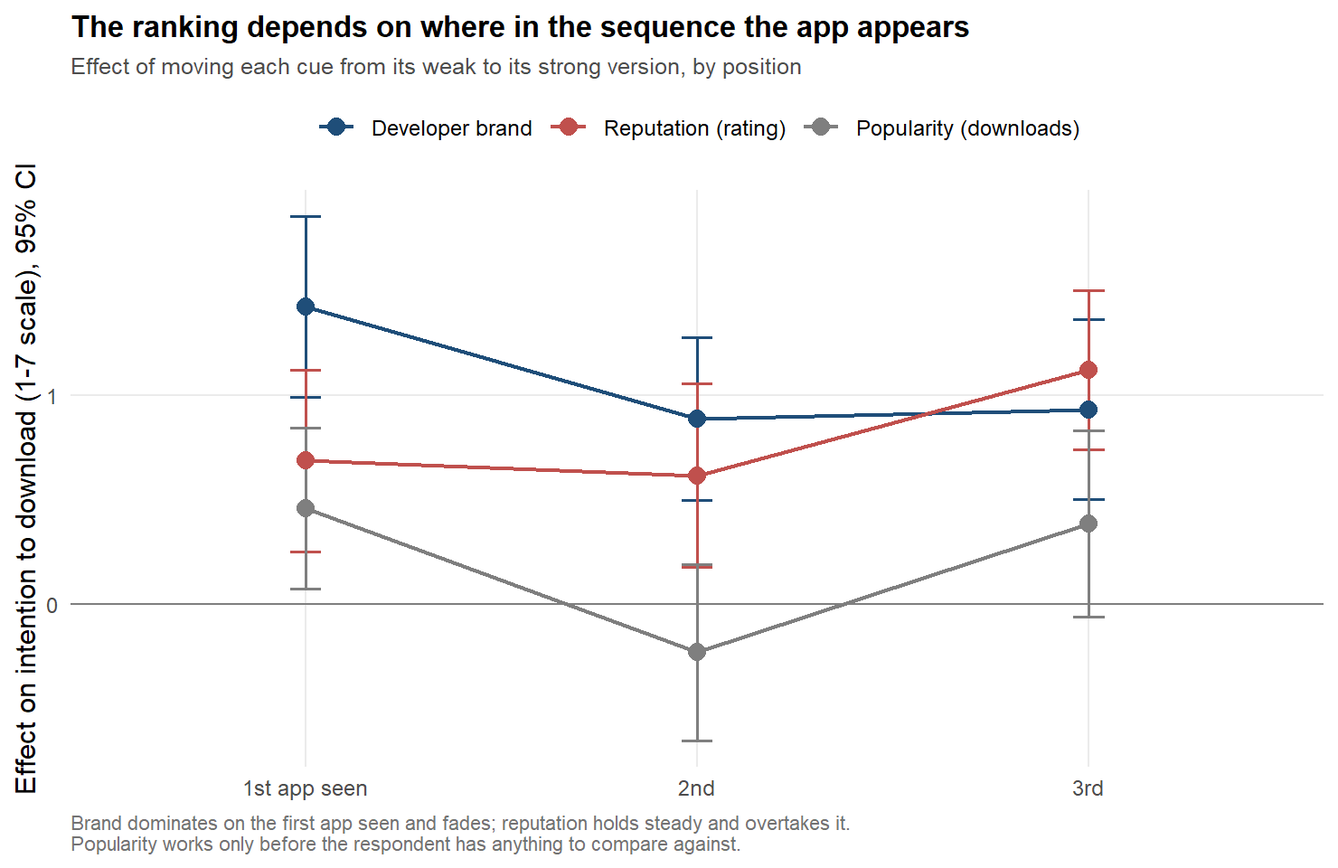
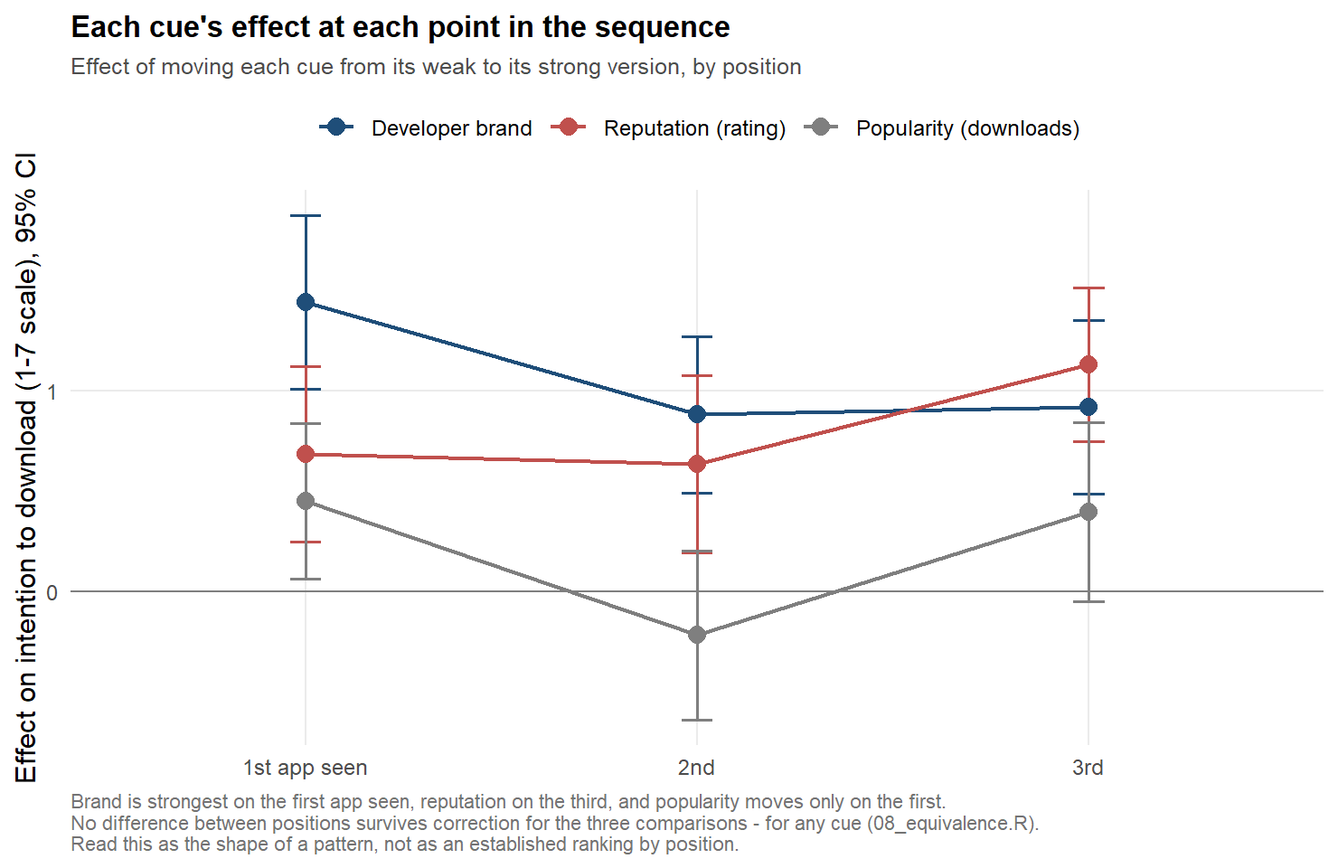
Pubblicazione blog reopening-my-thesis

diff --git a/content/blog/reopening-my-thesis.md b/content/blog/reopening-my-thesis.md
@@ -1,22 +1,17 @@
 ---
-title: "I Asked an AI to Review My Thesis. It Found Nothing New, Then Found Everything"
+title: "I Asked an AI to Review My Thesis. It Found Three Mistakes I Could Have Found Myself"
 description: "A reanalysis of my 2023 thesis on mobile app store downloads, three years later: what changed, what three mistakes I found, and what an AI-assisted second look could and couldn't catch."
-date: 2026-09-13T10:00:00+02:00
-draft: true
+date: 2026-09-21T10:00:00+02:00
+draft: false
 series: ["The Download Decision"]
 series_weight: 2
 tags: ["app store", "mobile app", "software", "eng"]
 author: "lb"
 showToc: true
 TocOpen: false
-# COPERTINA (nessun file ancora caricato). Un candidato forte è la curva di
-# specificazione (fig_04, sotto): è l'immagine più "di impatto" del post,
-# riassume da sola l'idea centrale (una conclusione che appare solo in un
-# angolo del grafico è una scelta, non un risultato). Togliere il commento
-# quando il file esiste, in static/blog/reopening-my-thesis/.
 cover:
     image: blog/reopening-my-thesis/master-thesis.webp
-    alt: "..."
+    alt: "The bound copy of the thesis, a dark blue hardcover stamped in silver with the University of Pavia seal and the title 'Determinants of Download on Mobile App Stores – An Empirical Analysis', held up in front of Pavia's covered bridge over the Ticino on a sunny day."
     relative: true
 ---
 
@@ -28,7 +23,7 @@ Three years is not a long time, and the same rule now reads as almost impossible
 
 In February 2023 I submitted a thesis on a narrow question: when someone lands on an app's product page in a store, which element of that page makes them decide to install it? I tested three of them, the **average review rating**, the **number of downloads**, and the **developer's brand**, carried by the app name, the icon and the developer's own name. I manipulated screenshots of a real Play Store page: each element exists in two versions, a strong one and a weak one, and every respondent saw three pages (one per element, in a random order, showing one of the two versions drawn at random). Nobody saw both versions of the same element. Then I measured what the literature calls intention to download.
 
-The answer I published was that the developer's brand is the most decisive element. Reputation comes second. Popularity does essentially nothing.
+The answer I published was that the developer's brand is the most decisive element. Reputation comes second. Popularity does essentially nothing, at least in a category with low network effects.
 
 This year I reopened the files. The data survived the scrutiny: the randomization worked, there are no missing values, and every regression in the thesis reproduces to four decimal places. The analysis did not. I made three mistakes, and none of them was in the data, they were in what I did with it.
 
@@ -38,94 +33,103 @@ The headline finding came from placing three coefficients side by side: 1.53 for
 
 Except that those three numbers came from three *different* regressions, estimated on three *different* groups of respondents. Nowhere in the thesis is there a test of whether 1.53 differs from 0.50. I looked at them and concluded.
 
-So I ran the test I should have run. One model, all 1,473 answers, with a proper adjustment for the fact that each person answered three times:
+So I ran the test I should have run. One model, all 1,473 answers at once, with an adjustment for the fact that each person now contributes three of them:
 
 | Element | Effect on intention to download (1–7 scale) | 95% CI |
 |---|---|---|
 | Developer's brand | **+1.05** | 0.81 to 1.29 |
-| Reputation (rating) | **+0.84** | 0.60 to 1.08 |
+| Reputation (rating) | **+0.85** | 0.61 to 1.09 |
 | Popularity (downloads) | +0.22 | −0.02 to 0.46 |
 
-Brand and reputation are **not distinguishable** (p = 0.22). Both clearly beat popularity. My three-step hierarchy is really two steps.
+Averaged over the three judgements each respondent made, brand and reputation are **not distinguishable** (p = 0.24). Both clearly beat popularity. My three-step hierarchy is really two steps, *on that average*, and the qualification turns out to matter.
 
-The interesting part is what the fragmentation cost. Splitting one sample into nine subsamples threw away most of the statistical power I had collected, and reputation's effect rose by two thirds, from 0.50 to 0.84, once it was estimated from all 491 answers rather than 149.
+The interesting part is what the fragmentation cost. Splitting one sample into nine subsamples threw away most of the statistical power I had collected, and reputation's effect rose by two thirds, from 0.50 to 0.85. About half of that rise is precision: on the same first-app question, one model on all the data puts reputation at 0.68 rather than 0.50. The other half comes from the change of question, because reputation is stronger in the judgements that come later.
 
 {{< figure
   src="fig_05_pooling_gain.webp"
-  alt="Two dot-and-whisker plots comparing the same three effects estimated two ways: hollow points from separate small subsamples, solid points from one pooled model. The pooled estimates are tighter and reputation shifts noticeably higher."
-  caption="The same question asked two ways. Hollow points are the thesis estimates, each from its own subsample; solid points use all the data at once. Reputation rises by two thirds; brand moves the other way."
+  alt="A dot-and-whisker plot of the three effects, each estimated three ways: hollow points from the thesis's separate small subsamples, triangles for the same first-app question from one model on all the data, solid points for the average over all three judgements. Brand is highest on the first app; reputation climbs from the thesis estimate to the average; popularity stays small throughout."
+  caption="The same three effects, estimated three ways. Hollow: the thesis, one regression per element on its own subsample. Triangle: the same question (the first app seen) from one model on all the data. Solid: the average over all three judgements, which is a different question."
 >}}
 
-To be sure this was not simply my new favourite model talking, I re-ran the comparison every defensible way: 24 combinations of sample, model type and controls, one of which failed to converge and was dropped. Brand comes out ahead in 4 of the remaining 23. The original conclusion was not a finding about apps. It was an artefact of an analytical choice.
+To be sure this was not simply my new favourite model talking, I re-ran the comparison every defensible way: 24 combinations of sample, model type and controls, one of which failed to converge and was dropped. Brand comes out ahead in 4 of the remaining 23, and those four are not a random corner of the picture. They are exactly the four that use only the **first** app each respondent saw.
+
+Which is the interesting part, because measuring the first app was a deliberate choice in 2022 and not an accident: the first screen is the only one a respondent judges before having anything to compare it against. On that quantity, the one the design was built to produce, brand does lead reputation: **+0.76 points, p = 0.03**, and +1.02 (p = 0.007) in the sample the thesis actually used.
+
+So the headline was not an artefact. The thesis made two claims: brand wins on the first app, and loses its lead once the user has seen other apps. It tested neither. Tested now, the first claim holds (+0.76, p = 0.03); the second does not reach significance (p = 0.10), so the data show a tendency, not a proven change.
+
+The mistake, then, is narrower than "the ranking collapses" and harder to shrug off. Nine regressions on nine subsamples share no parameters, so **no comparison between the three elements could be tested at all**, and none was. One model on all 1,473 answers gives the same first-app estimate, plus the test the thesis was missing, plus what happens after the user has seen alternatives.
 
 {{< figure
   src="fig_04_specification_curve.webp"
-  alt="A specification curve: dozens of point estimates for the same comparison, one per analytical choice, sorted by size. Almost all of them show brand and reputation as indistinguishable; brand only wins at one edge of the curve."
-  caption="Every defensible specification of the same comparison. If a conclusion only appears in a corner of this picture, it is a choice, not a result."
+  alt="A specification curve: the brand-minus-reputation gap estimated under every defensible combination of sample, model and controls, sorted by size, with a separate panel for the slide-6 subsample. Most intervals cross zero; the only clearly positive ones are the specifications that use the first app each respondent saw."
+  caption="Every defensible specification of the same comparison. Brand wins clearly only where the design aimed it, on the first app each respondent saw; everywhere else brand and reputation are indistinguishable."
 >}}
 
 ## Mistake Two: My "Manipulation Check" Was Not One
 
-The result people quoted back to me was the counter-intuitive one: download counts do not matter. In a market where everybody watches install numbers, that is an enjoyable thing to say.
+The result people quoted back to me was the counter-intuitive one: download counts do not matter. In a market where everybody watches install numbers, that is an enjoyable thing to say. It is also not quite what the thesis claimed. The experiment used scanner apps precisely because their network effects are low: a scanner is no more useful to you because millions of other people use it, so a download count can work only as a signal of what others think, not as a promise of extra value. The claim was that popularity is ineffective *in that setting*.
 
-I no longer believe the data supports it, for two reasons: one I should have caught in 2022, and one I did catch and did not follow through.
+I no longer believe the data supports even that, for two reasons: one I should have caught in 2022, and one I did catch and did not follow through.
 
 The first is embarrassing. I went back to the stimulus images themselves. The low-popularity version of the app displays **10,000+ downloads alongside 84,000 reviews**. More reviews than downloads. It is impossible, and the review count was held constant across the two conditions, so the defect sits entirely in the weak version, precisely the one that had to carry the comparison.
 
 The second is subtler, and it is a problem of labelling rather than of analysis. The thesis reports, model by model, a *manipulation check*: the share of respondents who confirmed they had noticed each element. What I actually asked, once, at the very end, was *which factors did you take into consideration?*, with nine boxes to tick. That is not a check that the manipulation registered. It is people reporting, after the fact, what they believe they did.
 
-I knew this at the time, the thesis calls the question "a compromise (and not ideal) version," and the decision that followed was deliberate: measure it, report it, and condition nothing on it. That decision was right, and I would make it again. What I failed to do was state the consequence. A study whose only perception measure is a post-treatment self-report has no verification that the manipulation was seen at all, and the word *check*, repeated in nine tables, quietly suggests that it does.
+I knew this at the time (the thesis calls the question "a compromise (and not ideal) version"), and the decision that followed was deliberate: measure it, report it, and condition nothing on it. That decision was right, and I would make it again. What I failed to do was state the consequence. A study whose only perception measure is a post-treatment self-report has no verification that the manipulation was seen at all, and the word *check*, repeated in nine tables, quietly suggests that it does.
 
-The consequence lands on popularity, because that is where a perception check would have mattered most. Among the 60% who ticked "number of downloads", the popularity effect more than doubles, to +0.51, and becomes significant. I report that as an illustration and not as a correction: the comparison is close to circular, since people moved by download counts are more likely to say they looked at them. Between a broken stimulus and an unverifiable measure of attention, the null had less support than I gave it credit for.
+The consequence lands on popularity, because that is where a perception check would have mattered most. Among the 60% who ticked "number of downloads", the popularity effect more than doubles, to +0.49, and becomes significant. I report that as an illustration and not as a correction: the comparison is close to circular, since people moved by download counts are more likely to say they looked at them. Between a broken stimulus and an unverifiable measure of attention, the null had less support than I gave it credit for.
 
 So what is the honest answer? Before looking, I fixed the smallest effect that would matter in practice. Every reasonable way of deriving it lands between 0.26 and 0.33 scale points. Measured against that bar:
+- on the **first app** a respondent sees, with nothing else on screen, popularity does work: +0.45, and that one is real;
+- on the **second** app it is −0.22 and on the **third** +0.40, and both are inconclusive: the interval is wider than the bar in either direction, so I cannot separate "nothing" from "too small to matter", or from something quite large.
 
-- **before comparison**, when a respondent sees one app and nothing else, popularity does work: +0.46, and that one is real;
-- **after** they have seen other apps, the effect is +0.06, sitting exactly on the boundary of what this study can resolve. I cannot separate "nothing" from "too small to matter".
+I first wrote that second bullet as a single number, +0.07 after comparison, which is what you get by averaging the second and third app together. It is also the shape of a mistake I had just finished criticising in my own thesis: an average of −0.22 and +0.40 describes a situation nobody was ever in. And it flattered a tidy story I liked, because the third app is not measurably different from the first (0.05 apart, p = 0.86). The dip sits on the second app alone, and no difference between positions survives a correction for having looked at all three.
 
 {{< figure
   src="fig_07_equivalence.webp"
-  alt="An equivalence-test plot: confidence intervals for the popularity effect before and after comparison, against a shaded band marking the zone too small to matter in practice. The 'after' interval straddles the edge of the band."
+  alt="An equivalence plot: 90% intervals for eleven results against a shaded band marking effects too small to matter in practice. Popularity on the first app sits clearly above the band; the averaged 'after others' popularity effect straddles its edge; the six interactions from the thesis stretch far beyond it in both directions; the two involvement moderations sit entirely inside it."
   caption="Which null results are really null. The shaded band is the zone of practical irrelevance, fixed before the tests were run. An interval far wider than the band means the study could not see, not that there was nothing to see."
 >}}
 
-"Download counts do not matter" was too strong. "Download counts are the cue you fall back on when you have nothing else to go on" fits everything I can observe.
+"Download counts do not matter" was too strong. What I can defend is smaller and less quotable: where network effects are low, download counts move intention on the first app someone sees, and after that this study cannot tell you. Which is still enough to retire the claim I published.
 
 ## Mistake Three: Silence Isn't Evidence
 
-The thesis concludes that there is no interaction between the three elements (a strong rating does not amplify a strong brand, and so on). That is true in the sense that nothing came out significant.
+The thesis concludes that there is no interaction between the three elements. Only one element was manipulated per screen, so here "interaction" can only mean something narrower: whether the effect of this app's rating depends on the brand of an app seen earlier. The thesis admits the limit in its methods; the abstract does not.
 
-It is also empty. Running the numbers, my design could only have detected an interaction larger than roughly 1.3 points on the 7-point scale, about 0.9 standard deviations. Real interactions in this literature are fractions of the main effects, which here range from 0.2 to 1.0. I was searching for something my instrument could not see, and reporting the silence as evidence.
+The real problem is that the answer is empty either way. My design could only have detected an interaction of 1.3 to 1.5 points on the 7-point scale, as large as the main effects themselves (0.2 to 1.0), and interactions are usually far smaller than that. Finding none was not evidence of absence, only of an instrument too coarse to see them.
 
-The same applies to two moderation results on which I built managerial advice. Neither replicates, and neither can be ruled out either. Of the 81 coefficients I estimated across nine regressions, exactly **two** survive a correction for having run that many tests. Both are the brand effect.
+The two moderation results I built managerial advice on are the opposite case. Here the data can say more than "not significant": both effects fall inside the margin I had fixed in advance as too small to matter. They are not unproven; they are practically absent.
 
 ## What Holds Up and One Thing That Is New
 
-**Brand and reputation are equally powerful, and interchangeable only on average.** Split by position in the sequence, the picture is sharper than anything I originally claimed:
+The brand effect is the one result that survives everything. Of the 81 coefficients I estimated across nine regressions, exactly **two** survive a correction for having run that many tests, and both are the brand effect.
 
-| | Shown first | Shown after other apps |
-|---|---|---|
-| Developer's brand | **+1.41** | +0.90 |
-| Reputation | +0.69 | **+0.91** |
-| Popularity | +0.46 | +0.06 |
+**Brand and reputation are equally powerful only in the average.** Split by position in the sequence, the picture is sharper than anything I originally claimed:
+
+| | 1st app seen | 2nd | 3rd |
+|---|---|---|---|
+| Developer's brand | **+1.44** | +0.88 | +0.92 |
+| Reputation | +0.68 | +0.63 | **+1.13** |
+| Popularity | +0.45 | −0.22 | +0.40 |
 
 {{< figure
   src="fig_06_by_position.webp"
-  alt="Two panels of dot-and-whisker plots, one for apps shown first and one for apps shown after others. Brand leads by a wide margin when shown first; reputation catches up and overtakes it when shown later."
-  caption="The ranking depends on where the app appears in the sequence. Brand dominates the first app seen and fades; reputation holds steady and overtakes it."
+  alt="A line chart of each element's effect on the first, second and third app seen, with 95% intervals. Brand starts highest and settles near 0.9; reputation is flat on the first two apps and highest on the third; popularity is positive on the first app, dips below zero on the second and recovers on the third. The intervals overlap widely."
+  caption="Each element's effect at each position in the sequence, with 95% intervals. Brand is strongest on the first app seen, reputation on the third, but no difference between positions survives a correction for multiple looks: this is the shape of a pattern, not a demonstrated one."
 >}}
 
-Brand dominates when there is nothing to compare against. Once a user has seen alternatives, the two converge completely. Stated as a probability: the brand leads reputation with 99% probability before comparison, and 51% after, a coin toss.
+Brand dominates when there is nothing to compare against: that gap is the one my thesis found, and it holds. Once a user has seen alternatives, the two converge: averaging the second and third app together, 0.89 against 0.92. Stated as a probability, the brand leads reputation with 99% probability before comparison and 48% after, a coin toss. What the data does not establish is that those two situations differ from each other (p = 0.10), and no pairwise difference between the three positions survives correction for any of the three elements. So read the movement as the shape of something worth testing properly, not as a result.
 
 {{< figure
   src="fig_13_posterior.webp"
-  alt="Overlapping probability density curves for the plausible size of each effect. The brand and reputation curves overlap heavily; the popularity curve sits further to the left with less overlap."
+  alt="Overlapping probability curves for the plausible size of each effect. Popularity sits near zero on the left; reputation and brand sit close together near one point on the scale and overlap heavily."
   caption="How large each effect plausibly is, given the data. Where two curves overlap, the data cannot tell the two elements apart, which is what “not distinguishable” looks like."
 >}}
 
-There is a practical reading. A strong brand is worth most in the moment when the user is not shopping around: a link from a search result, an advertisement, a recommendation. Ratings earn their keep in the browse-and-compare context, where the user is actively collecting information. For a new entrant this is better news than it sounds. You cannot buy Adobe's brand, but you can be the app that survives the comparison.
+There is a practical reading, and it stands or falls with that pattern. A strong brand is worth most in the moment when the user is not shopping around: a link from a search result, an advertisement, a recommendation. Ratings earn their keep in the browse-and-compare context, where the user is actively collecting information. For a new entrant this is better news than it sounds. You cannot buy Adobe's brand, but you can be the app that survives the comparison.
 
-And one genuinely new finding, which I had predicted in writing would fail before I ran it: **respondents differ a great deal in how much any of this moves them**, and the difference is systematic. The people most inclined to download things in general are the *least* moved by what the listing shows (correlation −0.61). The cues do their work on the undecided. An average effect across everybody conceals that entirely.
+And one genuinely new finding, which I had predicted in writing would fail before I ran it: **respondents differ a great deal in how much any of this moves them**, and the difference is systematic. The people most inclined to download things in general are the *least* moved by what the listing shows (correlation −0.59). The cues do their work on the undecided. An average effect across everybody conceals that entirely.
 
 {{< figure
   src="fig_08_heterogeneity.webp"
@@ -137,28 +141,31 @@ And one genuinely new finding, which I had predicted in writing would fail befor
 
 A reanalysis is only worth as much as the checks that could have embarrassed it. Four of them did not.
 
-Respondents do not treat a 1–7 scale as a ruler. The step into the top category is nearly twice the step into the third, because people avoid the ends of a scale. Re-estimating everything without assuming even spacing moves the effects by 0.8 to 3.1 percentage points and leaves the ranking untouched.
+Respondents do not treat a 1–7 scale as a ruler. An answer of 6 covers nearly twice as much underlying intention as an answer of 3: people who are quite sure still stop one short of the top, which is what avoiding the ends of a scale looks like. Re-estimating everything without assuming even spacing moves the effects by 0.7 to 3.0 percentage points and leaves the ranking untouched.
+
+{{< figure
+  src="fig_09_scale_cutpoints.webp"
+  alt="Two rows of points marking where each answer boundary falls on the underlying intention scale: an evenly spaced ruler above, the boundaries estimated from the data below. The estimated gaps are uneven, widest for answer 6 and narrowest for answer 3."
+  caption="Where each answer boundary sits on the underlying intention scale, against what an evenly spaced scale would look like."
+>}}
 
 The effects do not depend measurably on who is answering (not on age, gender, education or occupation). Students respond to reputation roughly twice as strongly as employed respondents, which is a tidy story that does not pass its own test; with 69% students in the sample, it could not have passed.
 
 And removing the 33 respondents who rushed or gave a single answer to an entire scale moves every effect slightly upwards, as removing noise should, and changes nothing else.
 
-The figures in the thesis are not drawn on the raw 1–7 answers but on a mean-centred version of them, one constant subtracted per element. Subtracting a constant per group is harmless as long as the model already knows which group it is looking at, and mine did: re-estimating everything on the raw answers moves no coefficient by more than 0.00000000005. It does cost the reader something, the *heights* of the three lines in my figure are then not comparable, only their slopes are, and in four of six panels the centred version ranks the three elements differently from the raw one. What I read off that figure was a slope, so the conclusion survives. The centring that would have mattered in a repeated-measures design is by respondent rather than by element, and that one cannot be done by subtracting a mean at all: it needs the respondent inside the model, which is precisely what my ANOVA was missing. Done the wrong way, by subtraction, it would have shrunk every effect by about a third.
+The figures in the thesis are not drawn on the raw 1–7 answers but on a mean-centred version of them, one constant subtracted per element. Subtracting a constant per group is harmless as long as the model already knows which group it is looking at, and mine did: re-estimating everything on the raw answers moves no coefficient by more than 0.00000000005. It does cost the reader something: the *heights* of the three lines in my figure are then not comparable, only their slopes are, and in four of six panels the centred version ranks the three elements differently from the raw one. What I read off that figure was a slope, so the conclusion survives. The centring that would have mattered in a repeated-measures design is by respondent rather than by element, and that one cannot be done by subtracting a mean at all: it needs the respondent inside the model, which is precisely what my ANOVA was missing. Done the wrong way, by subtraction, it would have shrunk every effect by about a third.
 
-<!-- Tre figure di controllo, presenti nel materiale originale ma segnate come
-     facoltative ("drop this block if the post runs long"): il post è già
-     lungo, quindi le ho omesse per la bozza. Se vuoi includerle, sono:
-       fig_09_scale_cutpoints (dove cade ogni soglia di risposta rispetto
-         a una scala equidistante).
-       fig_12_demographics (l'effetto di ciascun elemento per professione).
-       fig_14_centring (le stesse medie di cella sulla scala grezza e su
-         quella centrata, a confronto). -->
+{{< figure
+  src="fig_14_centring.webp"
+  alt="Two rows of line charts, one column per position in the sequence: the same cell means on the raw 1 to 7 scale above and on the mean-centred scale below. The slopes match between the rows, but the vertical order of the three lines changes in four of the six low or high comparisons."
+  caption="The same cell means on the raw answer scale and on the mean-centred scale used in the thesis figures. The slopes are identical; the order of the three lines is not."
+>}}
 
 ## What Three Years of Distance Taught Me
 
 Three things, none of them about app stores.
 
-**Splitting a sample to answer a question is usually the wrong move.** My nine separate regressions discarded most of the power I had collected, and then left me comparing numbers across samples that could not be compared. One model on all the data answered the question directly, and gave a different answer.
+**Protecting an estimand and splitting a sample are different things, and I did the second while meaning the first.** Measuring only the first app each respondent saw was the right instinct: it is the only judgement made before there is anything to compare against. Estimating it in nine disconnected regressions was not, because regressions that share no parameters cannot be compared with each other, which is exactly what I then did with them. I stated both halves of the result, and tested neither.
 
 **"Not significant" is not a finding until you say what you could have detected.** Every null result I reported deserved a sentence about the smallest effect the design could see. Three of them dissolve under that question.
 
@@ -168,16 +175,8 @@ Three things, none of them about app stores.
 
 *A note on how this was done.* The reanalysis was carried out with AI assistance, and the idea began as a small curiosity: how would an AI have written my master's thesis? The answer turned out to be less interesting than the question it provoked, which is how an AI would **review** it. It did not find anything I could not have found myself in 2023. It did the one thing I did not do, which is to check every claim against the evidence I already had, including the claims that were convenient. That is a low bar, and I did not clear it the first time.
 
-That is also the part that gives me pause, looking back at the three years between submitting this thesis and reopening it. In 2023, generative AI was allowed to touch exactly one part of this project: checking my English grammar. This year, the same class of tool helped me take the entire analysis apart and put it back together in a couple of days. That is not a difference in degree. It is a different activity, and it deserves a harder question than whether it was allowed, namely, what it actually changes about the work.
+In 2023, generative AI was allowed to check my English grammar and nothing else. This year the same class of tool helped me take the analysis apart and rebuild it in under two weeks. Yet none of the three mistakes needed a machine: a calculator and some patience would have caught them in 2022. What was missing was the decision to doubt something I already believed, and that decision is still mine.
 
-It would be tidy to conclude that AI is simply the cure for mistakes like mine. I do not think that holds. None of the three mistakes needed a machine to catch: a calculator and enough patience would have caught the comparison across three separate regressions back in 2022, and nothing but my own attention was needed to re-read a screenshot I had made myself. What was missing was not computational power. It was the decision to go back and doubt something I already believed, and that decision is still mine to make, with or without a model sitting next to me.
+What AI speeds up is execution: rerunning twenty-four specifications takes a few minutes. Judgment (whether a null is really null, whether a convenient finding survives doubt) moves at the speed it always did. The risk is mistaking one speed for the other. This piece was written with the same kind of help, so it deserves the same scrutiny: if a fourth mistake is hiding in it, I would like to know.
 
-The more useful distinction, I think, is between what AI actually speeds up. Rerunning twenty-four specifications overnight is execution, and accelerating it cost nothing, that is not where I want to spend my own hours. Deciding whether a null result is really null, whether an image is worth a second look, whether a convenient finding survives being doubted, that is judgment, and it moves at exactly the speed it always did. The risk in this whole project was never a shortage of tools. It was mistaking the first kind of speed for the second.
-
-There is a policy version of this too. My university's rule in 2023 was a blanket ban aimed at the writing itself. A more useful rule today would spend less effort policing whether a sentence was typed by a student, and more teaching students how to verify a claim quickly (their own or a model's) since that is precisely the skill a fast tool makes more valuable, not less.
-
-And this piece does not get to opt out of its own argument. It was written with the same kind of assistance it describes, which means it deserves the same scrutiny I am recommending for a thesis. If a fourth mistake is hiding in it somewhere, I would like to know.
-
-The speed is real, and worth having. The risk is spending all of it on speed and none of it on the pause that turns a fast result into an understood one, which, three years ago, cost me a thesis with three mistakes I never caught.
-
-*The full review, the reanalysis code, the decision rules fixed before the tests were run, and every log are in the [review repository](https://github.com/lucabnt/mobile-app-download-determinants-update). The original thesis, data and code remain [here](https://github.com/lucabnt/mobile-app-download-determinants). Further figures (on response quality and on order effects) are in the repository for anyone who wants them.*
+*The full review, code, pre-set decision rules and logs are in the [review repository](https://github.com/lucabnt/mobile-app-download-determinants-update); the original thesis, data and code are [here](https://github.com/lucabnt/mobile-app-download-determinants).*

diff --git a/content/blog/determinants_of_download_on_mobile_app_stores.md b/content/blog/determinants_of_download_on_mobile_app_stores.md
@@ -29,6 +29,8 @@ cover:
 
 This blog post contains the full text of my Master Thesis, written at the **Eberhard Karls University of Tübingen** and at the **University of Pavia** and submitted for the first time during **February 2023**. 
 
+In **September 2026** I reopened this work and reanalyzed the original data. That second pass found **three mistakes in the analysis** (none of them in the data itself), and is documented in [I Asked an AI to Review My Thesis](https://lucabontempi.com/blog/reopening-my-thesis/ "I Asked an AI to Review My Thesis. It Found Three Mistakes I Could Have Found Myself"). The text below is the thesis as it was submitted, left unchanged.
+
 The research question investigates which characteristic out of **reputation**, **popularity** and **developer's brand**, reflected in some elements in the **presentation page** on **app stores**, is the most effective in predicting **user's choice to download an app**.
 
 ![Figure 1.1: Mobile OS market shares in 2022 and 2009 (Laricchia, 2022).](/blog/determinants_of_download_on_mobile_app_stores/determinants_of_download_on_mobile_app_stores_extra_1.webp)
